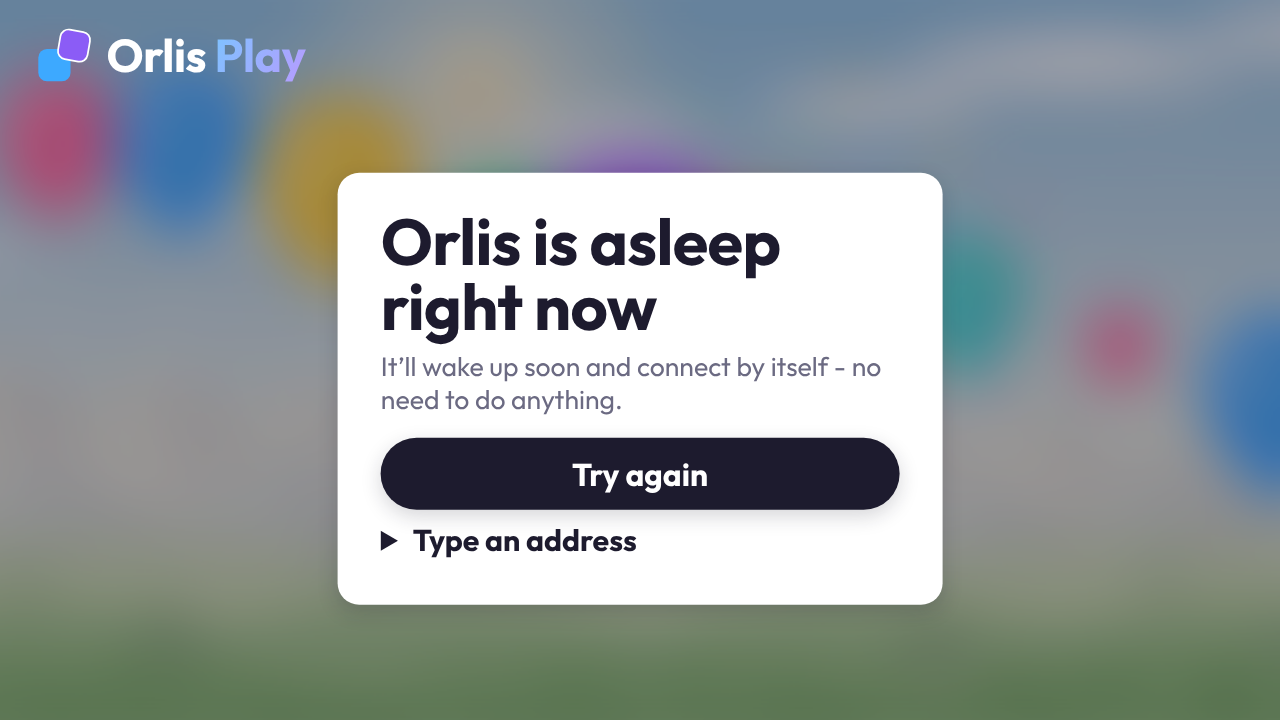
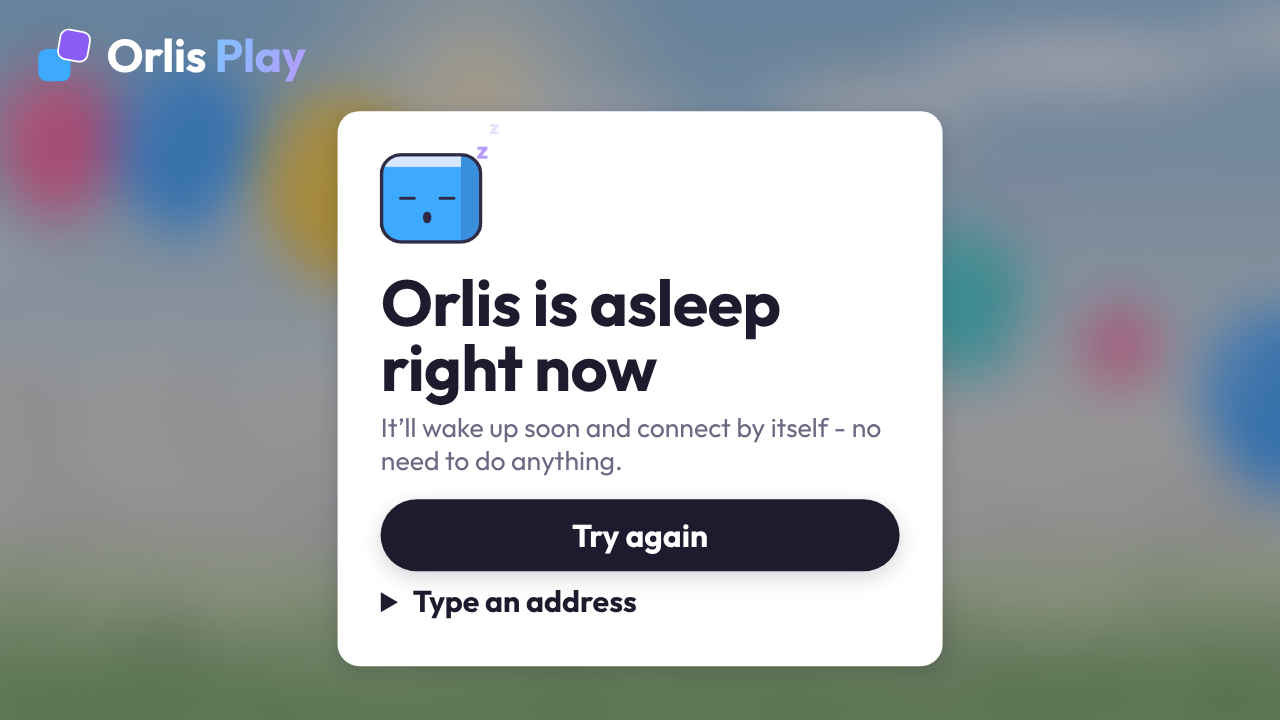
Asleep screen: Cubo dozing above the heading, eyes shut, z's drifting up
Claude-Session: https://claude.ai/code/session_01H7pxTnxTukKeeYRVqvmnkU

Changed region(s): [[0.25, 0.1528, 0.75, 0.9472]]

diff --git a/app/src/ui/account.js b/app/src/ui/account.js
@@ -13,7 +13,8 @@ import { frontScene } from './front.js';
 import { button, onPick } from './cursor.js';
 import { screen, h, clearUI } from './screens.js';
 import { sfx } from '../audio/sound.js';
-import { withFace } from './avatar-maker.js';
+import { withFace, faceOf } from './avatar-maker.js';
+import { CUBO } from './look.js';
 import { editProfile, renameFamily } from './kid-editor.js';
 import { setup } from './setup.js';
 import { claudeChecklist } from './connect-claude.js';
@@ -152,6 +153,15 @@ export function notFoundWords(online){
     : { asleep: false, heading: 'This laptop isn’t online', lede: 'Connect to Wi-Fi - Orlis will carry on by itself.' };
 }
 
+/* Cubo asleep: his head with closed eyes and a small round mouth, and three z's that float up (still with reduced motion) */
+export function sleepyCubo(){
+  const el = h('div', 'napcubo');
+  el.setAttribute('aria-hidden', 'true');
+  el.appendChild(faceOf({ look: { ...CUBO, face: { eyes: 'sleepy', mouth: 'o' } } }, 160, { tile: false, bare: true }));
+  for (let i = 0; i < 3; i++) el.appendChild(h('i', 'z', 'z'));
+  return el;
+}
+
 /* Orlis servers on the Wi-Fi, found by the app (a broadcast) - each with its
    name and address. */
 async function findServers(){
@@ -283,7 +293,9 @@ export function welcome(done, { auto = true, glide = false, onBack = null } = {}
     });
     const typed = h('details', 'setuptype'); typed.append(h('summary', '', 'Type an address'), addr);
     const head = h('h2', '', words.heading), lede = h('p', 'lede', words.lede);
-    show(head, lede,
+    /* asleep: Cubo dozing above the heading, eyes shut, a few z's drifting up (owner, 2026-11-24) */
+    const nap = sleepyCubo(); nap.hidden = !words.asleep;
+    show(nap, head, lede,
       msg, onPick(button('Try again', 'wide'), () => { sfx.select(); find(); }), typed);
     const me = card.lastChild;
     const tick = async () => {
@@ -294,7 +306,7 @@ export function welcome(done, { auto = true, glide = false, onBack = null } = {}
       /* (still not there: say again which it is - the words may have changed) */
       words = notFoundWords(await net.online());
       if (!s.contains(me)) return;
-      head.textContent = words.heading; lede.textContent = words.lede;
+      head.textContent = words.heading; lede.textContent = words.lede; nap.hidden = !words.asleep;
       watching = setTimeout(tick, 8000);
     };
     watching = setTimeout(tick, 8000);

diff --git a/app/src/clean-account.css b/app/src/clean-account.css
@@ -71,3 +71,19 @@
 .fpop .btn.setbtn.danger{ background:#fff1f2; color:#be123c; }
 .fpop .btn.setbtn:hover,.fpop .btn.setbtn.hot,body.remote .fpop .btn.setbtn.kfocus{ box-shadow:0 0 0 calc(var(--u)*.5) var(--who,var(--blue)); transform:none; }
 .fpop .favrow{ display:flex; align-items:center; gap:calc(var(--u)*2.4); margin:calc(var(--u)*1.2) 0; } .fpop .favrow canvas.avface{ width:calc(var(--u)*14); height:calc(var(--u)*14); border-radius:28%; background:var(--paper); }
+
+/* "Orlis is asleep": Cubo dozing above the heading - a slow breath, and z's drifting up and away */
+.screen.account .napcubo{ position:relative; width:calc(var(--u)*14); height:calc(var(--u)*14); margin:0 0 calc(var(--u)*1.5); }
+.screen.account .napcubo canvas{ width:100%; height:100%; display:block; transform-origin:50% 90%; animation:napbreath 4s ease-in-out infinite; }
+.screen.account .napcubo .z{ position:absolute; left:78%; top:18%; font:700 calc(var(--u)*3.4)/1 var(--ui); font-style:normal; color:var(--violet); opacity:0; animation:napz 3.6s ease-out infinite; }
+.screen.account .napcubo .z:nth-of-type(2){ animation-delay:-1.2s; font-size:calc(var(--u)*2.8); }
+.screen.account .napcubo .z:nth-of-type(3){ animation-delay:-2.4s; font-size:calc(var(--u)*2.2); }
+@keyframes napbreath{ 0%,100%{ transform:scale(1); } 50%{ transform:scale(1.035,.975); } }
+@keyframes napz{ 0%{ opacity:0; transform:translate(0,0); } 15%{ opacity:.9; } 100%{ opacity:0; transform:translate(calc(var(--u)*5),calc(var(--u)*-8)); } }
+@media (prefers-reduced-motion:reduce){
+  .screen.account .napcubo canvas{ animation:none; }
+  .screen.account .napcubo .z{ animation:none; opacity:.85; }
+  .screen.account .napcubo .z:nth-of-type(1){ transform:translate(0,0); }
+  .screen.account .napcubo .z:nth-of-type(2){ transform:translate(calc(var(--u)*2.4),calc(var(--u)*-3)); }
+  .screen.account .napcubo .z:nth-of-type(3){ transform:translate(calc(var(--u)*4.4),calc(var(--u)*-6)); }
+}
